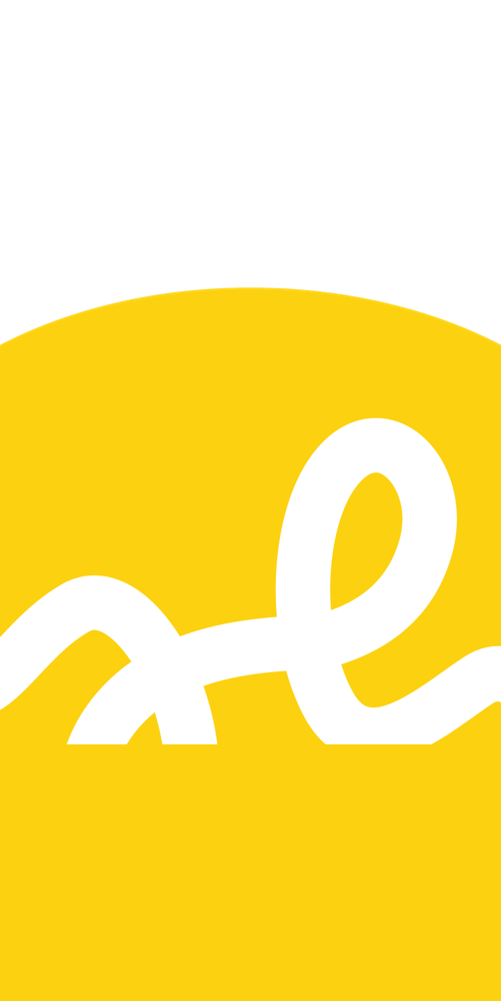
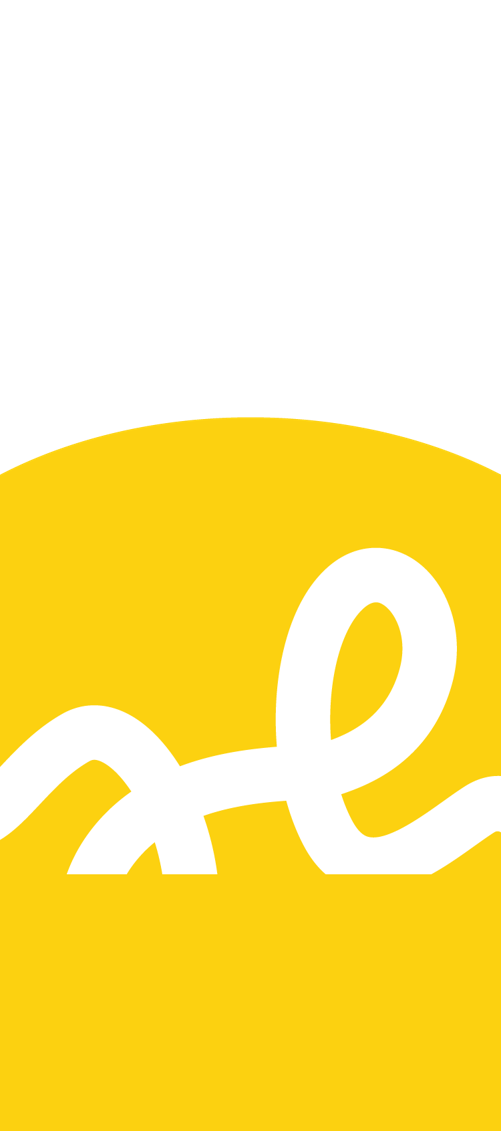
[fix] resp celular

Changed region(s): [[0.0, 0.2787, 1.0, 0.7742]]

diff --git a/src/components/HeaderRAC/page.jsx b/src/components/HeaderRAC/page.jsx
@@ -2,7 +2,7 @@ import Image from "next/legacy/image"
 
 export default function HeaderRAC() {
   return (
-    <div className="w-full min-h-[100vh] sm:h-[100vh] flex justify-center mt-10 ">
+    <div className="w-full h-[660px] sm:h-[720px] flex justify-center mt-10 ">
       <div className="w-4/12 lg:w-3/12 h-full hidden sm:flex flex-col items-center justify-center">
         <div className="relative w-[200px] lg:w-[180px] xl:w-[200px] h-[300px] lg:h-[200px] xl:h-[300px] mb-7">
           <Image
